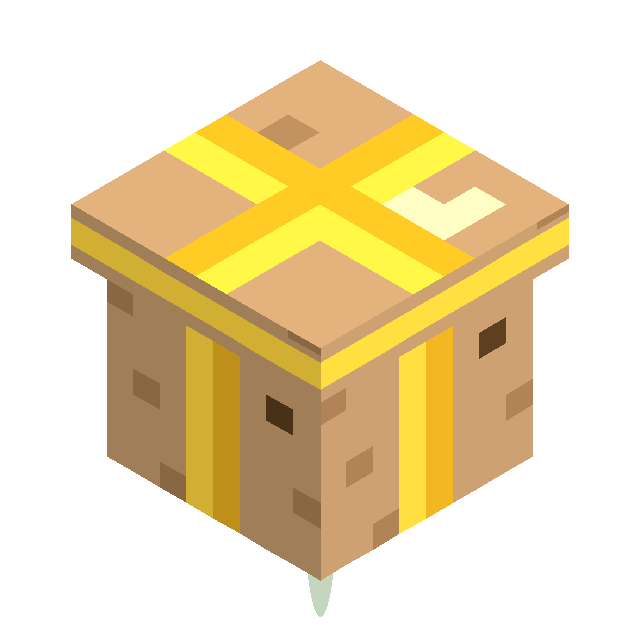
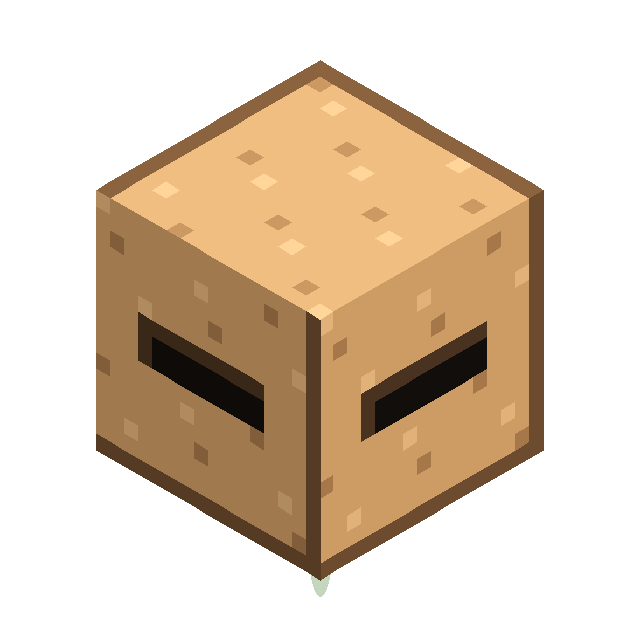
Make the Obesity box a cardboard cube with a dark slot
The placed box is a full kraft-cardboard block with a horizontal slot on each side, matching the reference carton instead of a taped parcel.

Changed region(s): [[0.0938, 0.0938, 0.9062, 0.9688]]

diff --git a/obesity-addon/tools/generate_art.py b/obesity-addon/tools/generate_art.py
@@ -63,63 +63,42 @@ def entity_texture():
     return img
 
 
-def cardboard(px, speckle=True):
-    base = (196, 154, 108, 255)
-    dark = (138, 106, 69, 255)
-    x, y = px
-    n = (x * 13 + y * 7) % 17
-    if speckle and n == 0:
-        return (168, 126, 82, 255)
-    if x % 32 in (0, 31) or y % 32 in (0, 31):
-        return dark
-    return base
+def paint_cardboard(px, ox, oy, size, base, light, speck, edge, slot=False):
+    for y in range(size):
+        for x in range(size):
+            if x in (0, size - 1) or y in (0, size - 1):
+                color = edge
+            else:
+                n = (x * 17 + y * 13) % 29
+                if n == 0:
+                    color = speck
+                elif n == 1:
+                    color = light
+                else:
+                    color = base
+            px[ox + x, oy + y] = color + (255,)
+    if not slot:
+        return
+    width = int(size * 0.52)
+    height = max(3, size // 8)
+    x0 = (size - width) // 2
+    y0 = (size - height) // 2
+    for y in range(y0 - 1, y0 + height + 1):
+        for x in range(x0 - 1, x0 + width + 1):
+            if 0 <= x < size and 0 <= y < size:
+                px[ox + x, oy + y] = (70, 48, 30, 255)
+    for y in range(y0, y0 + height):
+        for x in range(x0, x0 + width):
+            px[ox + x, oy + y] = (18, 14, 12, 255)
 
 
 def box_texture():
-    img = Image.new("RGBA", (64, 64), (160, 120, 80, 255))
+    img = Image.new("RGBA", (64, 64), (150, 110, 70, 255))
     px = img.load()
-    for y in range(64):
-        for x in range(64):
-            px[x, y] = cardboard((x, y))
-    # Side faces live in the 32x32 tile at (0, 0): cardboard with a yellow tape stripe.
-    for y in range(32):
-        for x in range(13, 19):
-            px[x, y] = (255, 214, 61, 255) if x not in (13, 18) else (232, 176, 32, 255)
-        if 6 <= y <= 22 and 22 <= x <= 29:
-            px[x, y] = (232, 214, 176, 255)
-    for y in range(8, 12):
-        for x in range(23, 28):
-            px[x, y] = (90, 60, 30, 255)
-    # Top tile (32, 0): tape cross.
-    for y in range(32):
-        for x in range(32):
-            tx, ty = 32 + x, y
-            tape = 13 <= x <= 18 or 13 <= y <= 18
-            if tape:
-                px[tx, ty] = (255, 214, 61, 255)
-            if x in (13, 18) or y in (13, 18):
-                if tape:
-                    px[tx, ty] = (232, 176, 32, 255)
-    # A round stamp in the corner of the lid.
-    for y in range(4, 12):
-        for x in range(20, 28):
-            if (x - 23) ** 2 + (y - 7) ** 2 <= 14:
-                px[32 + x, y] = (255, 236, 170, 255)
-    px[32 + 23, 7] = (90, 60, 30, 255)
-    px[32 + 22, 7] = (90, 60, 30, 255)
-    px[32 + 24, 7] = (90, 60, 30, 255)
-    px[32 + 23, 6] = (90, 60, 30, 255)
-    px[32 + 23, 8] = (90, 60, 30, 255)
-    # Bottom tile.
-    for y in range(32, 64):
-        for x in range(32):
-            if abs((x - 16) - (y - 48)) < 2 or abs((x - 16) + (y - 48)) < 2:
-                px[x, y] = (120, 86, 52, 255)
-    # Lid rim tile (32, 32), a short yellow band.
-    for y in range(32, 48):
-        for x in range(32, 64):
-            if 4 <= (y - 32) <= 11:
-                px[x, y] = (255, 214, 61, 255)
+    # Every side shows the dark slot, so the cube matches the reference from any angle.
+    paint_cardboard(px, 0, 0, 32, (196, 148, 96), (214, 170, 116), (158, 114, 70), (104, 72, 44), slot=True)
+    paint_cardboard(px, 32, 0, 32, (208, 164, 112), (224, 184, 132), (176, 132, 86), (120, 86, 54), slot=False)
+    paint_cardboard(px, 0, 32, 32, (146, 104, 66), (164, 120, 78), (120, 84, 52), (88, 60, 36), slot=False)
     return img
 
 
@@ -224,36 +203,23 @@ def box_bones():
     side = face_uv(0, 0, 32, 32)
     top = face_uv(32, 0, 32, 32)
     bottom = face_uv(0, 32, 32, 32)
-    rim = face_uv(32, 32, 32, 16)
     return [
         {
             "name": "box",
             "pivot": [0, 0, 0],
             "cubes": [
                 {
-                    "origin": [-6, 0, -6],
-                    "size": [12, 10, 12],
+                    "origin": [-8, 0, -8],
+                    "size": [16, 16, 16],
                     "uv": {
                         "north": side,
                         "south": side,
                         "east": side,
                         "west": side,
-                        "up": bottom,
+                        "up": top,
                         "down": bottom,
                     },
-                },
-                {
-                    "origin": [-7, 9.6, -7],
-                    "size": [14, 2.6, 14],
-                    "uv": {
-                        "north": rim,
-                        "south": rim,
-                        "east": rim,
-                        "west": rim,
-                        "up": top,
-                        "down": top,
-                    },
-                },
+                }
             ],
         }
     ]
@@ -367,7 +333,7 @@ def draw_model(texture, bones, mode, size, ground=True):
     # Farther faces (larger depth) paint first.
     polys.sort(key=lambda item: -item[0])
 
-    steps = 8
+    steps = 16
     for _depth, face, corners, u0, v0, uw, uh in polys:
         for iy in range(steps):
             for ix in range(steps):
@@ -482,7 +448,7 @@ def storyboard(character, box):
     canvas = Image.new("RGBA", (1320, 560), (24, 28, 34, 255))
     draw = ImageDraw.Draw(canvas)
     panels = [
-        (30, "1. Place the box", box, "A sealed carton with yellow tape."),
+        (30, "1. Place the box", box, "A cardboard cube with a dark slot."),
         (450, "2. Tap it open", character, "Obesity pops out, chubby and yellow."),
         (870, "3. Feed them", hud_mock().resize((390, 226), Image.Resampling.LANCZOS), "Their hunger stays at the top."),
     ]
